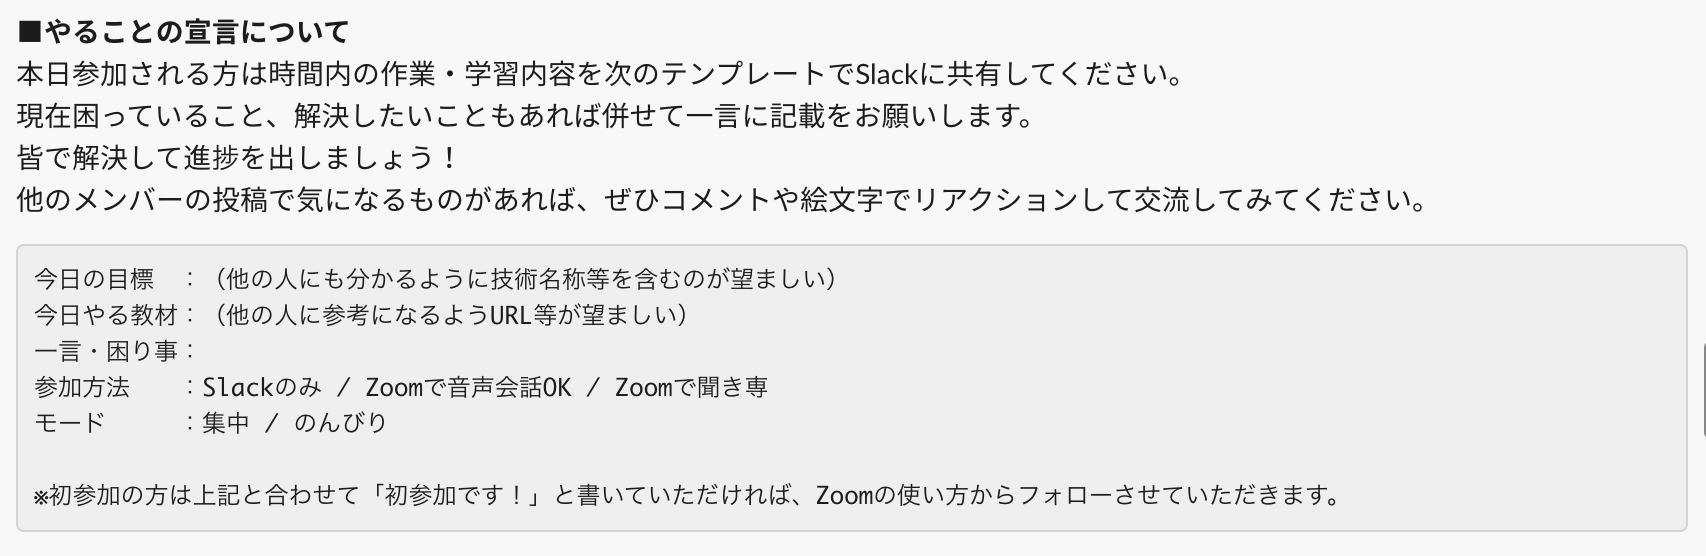
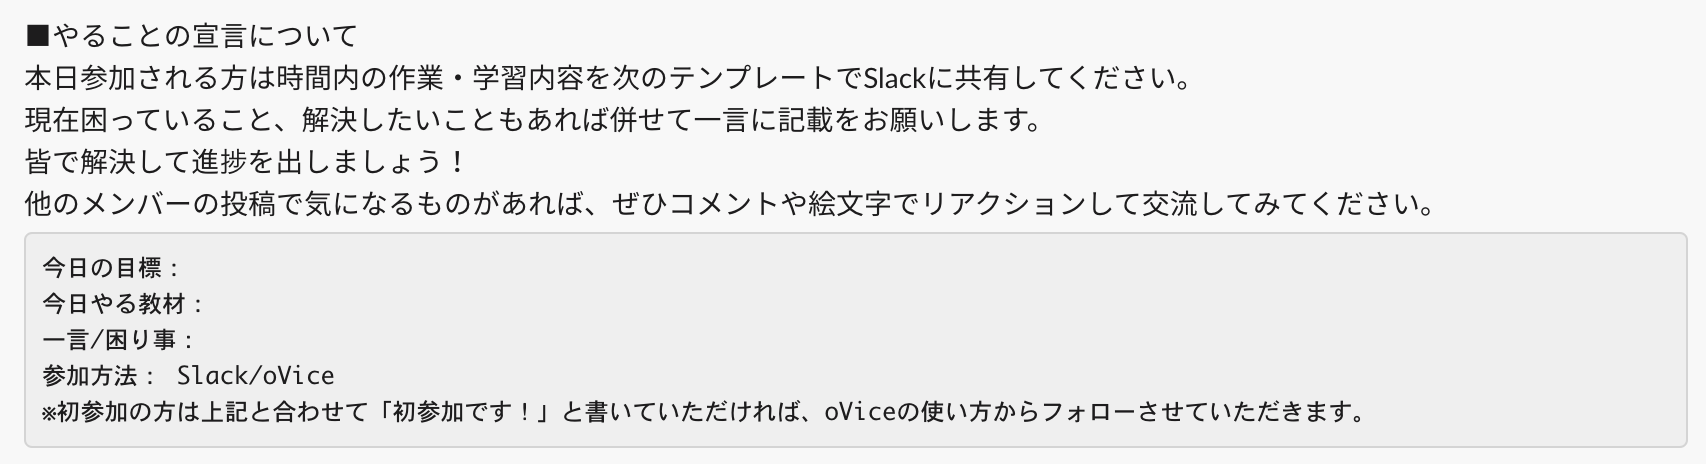
【Modify】もくもく会をZoomからoViceでの開催に変更

Changed region(s): [[0.0, 0.0302, 0.9941, 0.9655], [0.2175, 0.6638, 0.466, 0.7241], [0.9941, 0.6034, 1.0, 0.7845]]

diff --git a/docs/mokumoku.md b/docs/mokumoku.md
@@ -67,7 +67,7 @@ TechCommitのSlackに参加済の方は誰でも参加できますので、**学
 **A. 音声のみ、Slackのみ参加も可能です。**
 
 実際に音声のみで参加されている方がいらっしゃいますが、ビデオ通話の方と同様にコミュニケーションをとることができます。  
-映像の切り替え方などZoomの使い方については[Zoomのインストール方法](tutorial/preparation.md)も参照ください
+映像の切り替え方などoViceの使い方については[oViceの導入](/tutorial/preparation/#ovice)も参照ください
 <br>
 <br>
 <br>
@@ -75,8 +75,8 @@ TechCommitのSlackに参加済の方は誰でも参加できますので、**学
 **Q. マイクがないとダメ？**  
 **A. テキスト（Slack）のみの参加も可能です。**  
 
-1. Zoomに参加して自習室のような雰囲気を体感しながらSlackだけでコミュニケーションをとる。
-2. Zoomに参加しないでSlackだけでコミュニケーションをとりながら同じ時間を共有して学習する。
+1. oViceに参加して自習室のような雰囲気を体感しながらSlackだけでコミュニケーションをとる。
+2. oViceに参加しないでSlackだけでコミュニケーションをとりながら同じ時間を共有して学習する。
 
 どちらも歓迎しますので、ご自身のスタイルに合わせてご参加ください。
 <br>
@@ -84,15 +84,15 @@ TechCommitのSlackに参加済の方は誰でも参加できますので、**学
 <br>
 
 **Q. プライベートな音を入れたくないのですが。**  
-**A. Zoomはミュート機能があり、自分の音声を聞かれたくない場合は音声をオフにすることができます。**  
+**A. oViceはミュート機能があり、自分の音声を聞かれたくない場合は音声をオフにすることができます。**  
 
-Slackのチャットでもコミュニケーションを取っているため、Zoomの音声は終始オフにしたままでも問題ありません。
+Slackのチャットでもコミュニケーションを取っているため、oViceの音声は終始オフにしたままでも問題ありません。
 <br>
 <br>
 <br>
 
 **Q. どれくらいの人数が参加するの？雰囲気は？**  
-**A. 曜日にもよりますが３人〜１０名程度です。**  
+**A. 曜日にもよりますが３〜１０人程度です。**  
 
 集中してもくもくと学習する方、たまに雑談される方、それぞれいらっしゃいます。
 <br>
@@ -110,27 +110,21 @@ Slackのチャットでもコミュニケーションを取っているため、
 まずは、自分がSlack **#20_もくもく部屋** チャンネルに参加しているか確認してみてください。
 チャンネルの検索方法は[Slackチャンネルの参加方法](tutorial/join-slack-channel.md)を参考にしてください。
 
-Zoom入室などの案内は毎回 **#20_もくもく部屋** チャンネルで行いますので、利用する場合は参加しておきましょう。
+oVice入室などの案内は毎回 **#20_もくもく部屋** チャンネルで行いますので、利用する場合は参加しておきましょう。
 
-### Zoomのマイプロフィールを設定する
-もくもく会では基本的にZoom上の名前を**Slack上の表示名**と合わせていただくようお願いしています。
+### oViceのマイプロフィールを設定する
+もくもく会の開催はoVice（オヴィス）というビデオ通話ツールで行います。  
+基本的にoVice上の名前を**Slack上の表示名**と合わせていただくようお願いしています。
 
-![Zoom名前設定](images/mokumoku/zoom-profile-setting.png)
-
-名前を固定で設定したり、アイコン等各種設定をする場合にはZoomのマイプロフィールのページから変更できます。  
-会員登録をしなくてもZoom自体は利用可能ですが、その場合はZoom入室後変更いただけますと幸いです。
-
-なお、入室後でも変更可能なので、使い方に慣れてきたらマイプロフィール上でデフォルトの表示名を設定しておいて、入室したら適宜変更することもできます。
+名前を固定で設定したり、アイコン等各種設定をする場合にはoViceのプロフィールから変更できます。  
+会員登録をしておけば入室のたびに変更しなくて済むようになります。  
+会員登録をしなくてもoVice自体は利用可能ですが、その場合はoVice入室後変更いただけますと幸いです。
 
 ### 開催場所を確認して入室する
-もくもく会の開催はZoomというビデオ通話ツールで行います。
-Zoomの準備がまだできていない方は[Zoomのインストール方法](tutorial/preparation.md)を参考にしてください。
+oViceの準備がまだできていない方は[oViceの導入](/tutorial/preparation/#ovice)を参考にしてください。
 
-もくもく会の準備が整うと **#20_もくもく部屋**チャンネルに、開催する部屋のURLともくもく会開始のアナウンスが流れます。
-
-![もくもく会アナウンス](images/mokumoku/announcement.jpg)
-
-URLにアクセスしてZoomに参加しましょう。
+もくもく会の準備が整うと **#20_もくもく部屋**チャンネルに、開催する部屋のURLともくもく会開始のアナウンスが流れます。  
+URLにアクセスしてoViceに参加しましょう。
 
 ### テンプレートに沿って学習宣言する
 

diff --git a/docs/tutorial/include-techcommit-in-your-life.md b/docs/tutorial/include-techcommit-in-your-life.md
@@ -6,10 +6,10 @@
 
 ## 学習を習慣化するモジュール
 ### もくもく会/自習室
-もくもく会が**毎日20:00~22:00**に開催されていますので、都合の良い日にZoom上で一緒に学習することができます。（※Zoomに参加するのが不都合な場合はSlackチャンネルのみの参加もできます）
+もくもく会が**毎日20:00~22:00**に開催されていますので、都合の良い日にoVice上で一緒に学習することができます。（※oViceに参加するのが不都合な場合はSlackチャンネルのみの参加もできます）
 
 20:00~22:00はファシリテーターがいるので、はじめはこの時間帯に参加されるとスムーズにご案内できます。
-ファシリテーターのいない午前中はZoomを自習室として開放しています。
+ファシリテーターのいない午前中はoViceを自習室として開放しています。
 
 また「この時間に一緒に〇〇を学習しませんか？」と自主的に開催いただくことも可能です。（平日の朝や土日祝日の午前中、夕方に学習されている方もいます）  
 誰かと一緒に学習する予定を入れることで、自分自身に強制力を持たせられます。

diff --git a/docs/index.md b/docs/index.md
@@ -13,8 +13,13 @@ TechCommitはオンラインで**学びを遊ぶ、ITスキルの継続的学習
 
 ## 本サイトの見方(メンバー向け)
 ### ツールの準備が済んでいない場合
-TechCommitではWebサイト以外にもSlack（チャットツール）とZoom（ビデオ通話ツール）を使用してメンバーとコミュニケーションをとっています。  
-SlackとZoomの導入について確認しておきましょう。
+TechCommitではWebサイト以外にも下記ツールを使用してメンバーとコミュニケーションをとっています。  
+
+- Slack：チャットツール
+- Zoom：イベントで使用するビデオ通話ツール
+- oVice：もくもく会で使用するビデオ通話ツール
+
+各ツールの導入について確認しておきましょう。
 
 ▶ [利用環境を整えよう](tutorial/preparation.md)  
 ▶ [興味のある話題に参加しよう](tutorial/join-slack-channel.md)  
